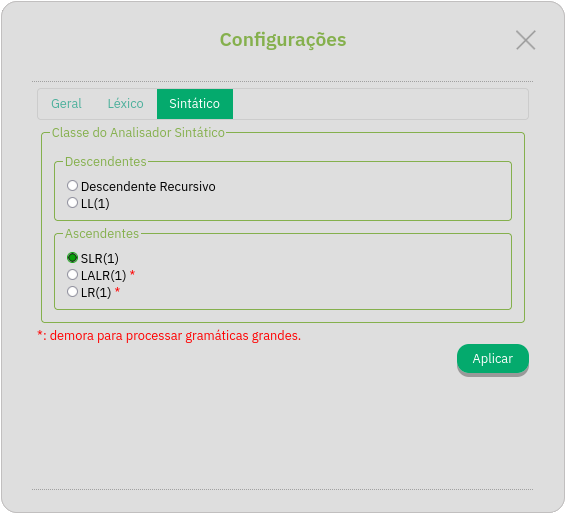
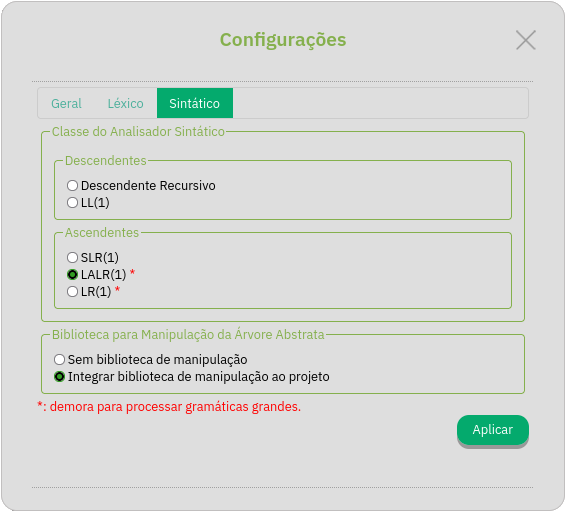
Menciona opção da BibAST na documentação das opções

diff --git a/webgals-docs/src/opcoes.md b/webgals-docs/src/opcoes.md
@@ -58,7 +58,7 @@ novas funcionalidades são desabilitadas.
 O Web GALS é compativel com o GALS 2003 até certo ponto: todas as novas funcionalidades irão inevitavelmente gerar incompatibilidades e,
 por isso, é oferecido a opção de gerar um projeto estritamente compatível com a versão antiga, onde as novas funcionalidades estão desabilitadas.
 
-- **Formato `.gals` -- (GALS 2003)**: Python e Rust desativados; LR(1)-Canônico e LALR(1) desativados; não salva o conteúdo da janela de simulação.
+- **Formato `.gals` -- (GALS 2003)**: Python e Rust desativados; LR(1)-Canônico e LALR(1) desativados; BibAST desativada; não salva o conteúdo da janela de simulação.
 - **Formato `.vgls` -- (Web GALS)**: Suporte completo.
 
 ## Opções do Analisador Léxico
@@ -134,6 +134,12 @@ A aba de opções do Analisador Sintático permite o usuário configurar qual al
 > O LR(1) Canônico e por consequência o LALR(1) podem travar o Web GALS caso a gramática seja muito complexa.
 
 Algumas classes impõem restrições na construção da gramática que devem ser observadas quando for descrevê-la.
+
+#### Biblioteca para manipulação da árvore abstrata (BibAST)
+
+- **Sem biblioteca de manipulação:** Gera o projeto sem capacidade de representar a árvore de derivação sintática em memoria.
+- **Integrar biblioteca de manipulação ao projeto:** Incorpora a biblioteca de manipulação e geração de árvores sintáticas abstratas ao projeto gerado
+pelo Web GALS. A função da classe sintático passa a retornar um valor do tipo `Node` que representa a árvore sintática aceita pelo analisador sintático.
 
 <!-- Levando em consideração minha descoberta que a unica diferença entre o SLR(1), LALR(1) e LR(1)
      é a tabela gerada, é muito provável que o Delphi tem suporte sim ao LALR(1) e LR(1). Só não vou

diff --git a/webgals-docs/src/tree.md b/webgals-docs/src/tree.md
@@ -1,5 +1,9 @@
 # Árvore Sintática em Memória
 
+O Web GALS vêm com uma biblioteca para ajudar na criação e manipulação de árvores sintáticas 
+em memoria. Nomeada **BibAST**, esta permite o desenvolvimento de compiladores com uma metodologia
+baseada em transformações recursivas.
+
 > [!WARNING]
 > A biblioteca ainda está em desenvolvimento e atualmente não tem suporte a Delphi.
 > A API esta sujeita a mudar até novembro de 2026.
